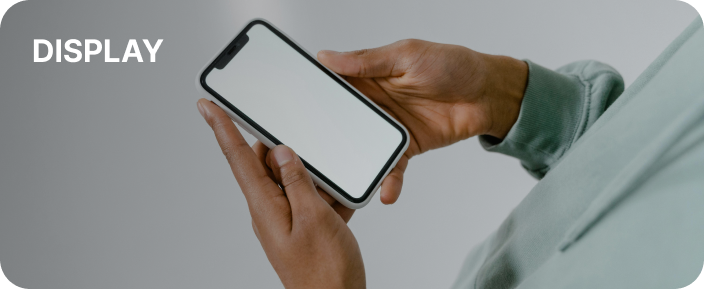
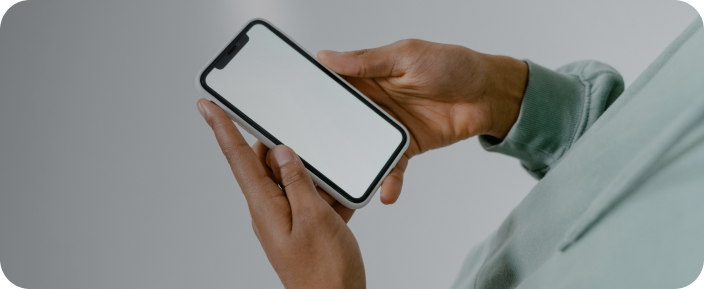
Home page

Changed region(s): [[0.0312, 0.1246, 0.25, 0.218]]

diff --git a/pages/index.tsx b/pages/index.tsx
@@ -5,91 +5,224 @@ import HomeMainBanner from "@/components/Banner/HomeMainBanner";
 import { GetStaticProps } from "next";
 import { useTranslations } from "next-intl";
 import Link from "next/link";
+import HomeSection2Slider from "@/components/Slider/HomeSection2Slider";
+import { HomeSection3ListItem } from "@/helper/utility";
 
 export default function Home() {
     const t = useTranslations("MainPage");
+    const itemList = HomeSection3ListItem();
     return (
         <Layout type="main">
             <div className={`whitespace-pre-line`}>
                 <HomeMainBanner />
-                <div id="section_1" className=" bg-white mt-[100px] ">
+                <div
+                    id="section_1"
+                    className=" bg-white py-[100px] max-xl:py-8 max-xl:px-5"
+                >
                     <div className="mx-auto max-w-[1224px] ">
-                        <div className="flex w-full gap-5 text-[#353644]">
+                        <div className="flex max-sm:flex-col w-full gap-5 text-[#353644]">
                             <div className="w-full  ">
-                                <div className="text-[48px] leading-[64px] font-bold max-w-[496px]">
+                                <div className="text-[48px] leading-[64px] max-sm:text-2xl font-bold max-w-[496px] break-keep break-normal">
                                     {t("Home_section_1_text_1")}
                                 </div>
                             </div>
-                            <div className="w-full text-xl font-light">
+                            <div className="w-full text-xl max-sm:text-sm font-light break-keep break-normal">
                                 {t("Home_section_1_text_2")}
                                 <div>
                                     <Link
                                         href="#"
                                         className="mt-5 border border-black rounded-3xl w-[122px] h-[43px] text-sm text-black font-medium flex items-center justify-center"
                                     >
-                                        더 알아보기
+                                        {t("more_button_text")}
                                     </Link>
                                 </div>
                             </div>
                         </div>
 
-                        <div className=" w-full mt-[108px]">
-                            <div className="text-primary text-2xl border-b border-[#D9D9D9]">
+                        <div className=" w-full mt-[108px] max-sm:mt-14">
+                            <div className="text-primary text-2xl max-sm:text-[16px] border-b border-[#D9D9D9]">
                                 Businesses
                             </div>
 
                             <div className="w-full mt-[36px]">
-                                <div className="grid grid-cols-12 gap-5 w-full mb-5">
-                                    <div className="col-span-7">
+                                <div className="grid grid-cols-12 gap-5 max-sm:gap-2 w-full mb-5 max-sm:mb-2">
+                                    <div className="col-span-7 max-sm:col-span-12 relative">
                                         <Image
                                             src={`/images/h1.png`}
                                             alt={`images/h1.png`}
-                                            className=" h-[289px] w-full object-cover object-center rounded-3xl"
+                                            className=" h-[289px] max-sm:h-[180px] w-full object-cover object-center rounded-3xl"
                                             width="130"
                                             height="50"
                                             unoptimized={true}
                                             priority={true}
                                         />
+                                        <div className="absolute top-8 left-8 max-sm:top-5 max-sm:left-5 font-semibold text-[32px] max-sm:text-2xl uppercase">
+                                            {t("Display")}
+                                        </div>
                                     </div>
-                                    <div className="col-span-5">
+                                    <div className="col-span-5 max-sm:col-span-12 relative">
                                         <Image
                                             src={`/images/h2.png`}
                                             alt={`images/h2.png`}
-                                            className=" h-[289px] w-full object-cover object-center rounded-3xl"
+                                            className=" h-[289px] max-sm:h-[180px] w-full object-cover object-center rounded-3xl"
                                             width="130"
-                                            height="50"
+                                            height="100"
                                             unoptimized={true}
                                             priority={true}
                                         />
+                                        <div className="absolute top-8 left-8 max-sm:top-5 max-sm:left-5 font-semibold text-[32px] max-sm:text-2xl uppercase">
+                                            {t("Semiconductor")}
+                                        </div>
                                     </div>
                                 </div>
-                                <div className="grid grid-cols-12 gap-5 w-full mb-5">
-                                    <div className="col-span-5">
+                                <div className="grid grid-cols-12 gap-5 max-sm:gap-2 w-full mb-5 max-sm:mb-2">
+                                    <div className="col-span-5 max-sm:col-span-12 relative">
                                         <Image
                                             src={`/images/h3.png`}
                                             alt={`images/h3.png`}
-                                            className=" h-[289px] w-full object-cover object-center rounded-3xl"
+                                            className=" h-[289px] max-sm:h-[180px] w-full object-cover object-center rounded-3xl"
                                             width="130"
                                             height="50"
                                             unoptimized={true}
                                             priority={true}
                                         />
+                                        <div className="absolute top-8 left-8 max-sm:top-5 max-sm:left-5 font-semibold text-[32px] max-sm:text-2xl uppercase">
+                                            {t("Secondary Battery")}
+                                        </div>
                                     </div>
-                                    <div className="col-span-7">
+                                    <div className="col-span-7 max-sm:col-span-12 relative">
                                         <Image
                                             src={`/images/h4.png`}
                                             alt={`images/h4.png`}
-                                            className=" h-[289px] w-full object-cover object-center rounded-3xl"
+                                            className=" h-[289px] max-sm:h-[180px] w-full object-cover object-center rounded-3xl"
                                             width="130"
                                             height="50"
                                             unoptimized={true}
                                             priority={true}
                                         />
+                                        <div className="absolute top-8 left-8 max-sm:top-5 max-sm:left-5 font-semibold text-[32px] max-sm:text-2xl uppercase">
+                                            {t("Part-Materials")}
+                                        </div>
                                     </div>
                                 </div>
                             </div>
                         </div>
                     </div>
+                </div>
+
+                <div
+                    id="section_2"
+                    className=" bg-[#F0F4FF] pt-[100px] pb-[58px] max-sm:pt-5 max-sm:pb-5  relative max-sm:px-4"
+                >
+                    <div className="mx-auto max-w-[1224px] ">
+                        <div className="grid grid-cols-12 gap-5 w-full mb-5 ">
+                            <div className="col-span-5 max-sm:col-span-12 relative ">
+                                <div className="max-w-[484px] max-sm:min-w-full ">
+                                    <div className="text-[42px] max-lg:text-[28px] font-medium text-black max-sm:text-center ">
+                                        {t("Home_section_2_title")}
+                                    </div>
+                                    <div className="w-[76px] max-sm:mx-auto h-1 bg-primary"></div>
+                                    <p className="mt-5 text-xl max-lg:text-[16px] font-[400] text-grayText h-[140px] max-sm:h-[80px] ">
+                                        {t("Home_section_2_text")}
+                                    </p>
+                                    <div className="max-sm:hidden">
+                                        {" "}
+                                        <Link
+                                            href="#"
+                                            className="mt-5 bg-gradient-to-r from-[#276CF3] to-[#3042E4] rounded-lg w-[210px] max-lg:w-[150px] h-[56px] max-lg:h-[40px] text-[16px] max-lg:text-sm text-white font-semibold flex items-center justify-center"
+                                        >
+                                            {t("Home_section_2_button")}
+                                        </Link>
+                                    </div>
+                                </div>
+                            </div>
+                            <div className="col-span-7  max-sm:col-span-12 relative"></div>
+                        </div>
+                    </div>
+                    <div className="w-full  sm:absolute sm:top-[100px] h-full z-20 ">
+                        <div className="grid grid-cols-9 max-xxl:grid-cols-7 max-xl:grid-cols-12 sm:gap-5 w-full  ">
+                            <div className="col-span-4 max-sm:col-span-9 max-xxl:col-span-3 max-xl:col-span-5 relative "></div>
+                            <div className="col-span-5 max-sm:col-span-12 max-xxl:col-span-4 max-xl:col-span-7 border ">
+                                <HomeSection2Slider />
+                            </div>
+                        </div>
+
+                        <div className="sm:hidden flex justify-center ">
+                            {" "}
+                            <Link
+                                href="#"
+                                className="mt-5 bg-gradient-to-r from-[#276CF3] to-[#3042E4] rounded-lg w-[210px] max-lg:w-[200px] h-[56px] max-lg:h-[40px] text-[16px] max-lg:text-sm text-white font-semibold flex items-center gap-2 justify-center"
+                            >
+                                {t("Home_section_2_button")}{" "}
+                                <Image
+                                    src={`/svg/arrow-right-sm.svg`}
+                                    alt={``}
+                                    className=" h-6 max-sm:h-6 w-6 "
+                                    width="24"
+                                    height="24"
+                                    unoptimized={true}
+                                    priority={true}
+                                />
+                            </Link>
+                        </div>
+                    </div>
+                </div>
+
+                <div
+                    id="section_3"
+                    className=" bg-white py-[140px] max-xl:py-8 max-xl:px-5"
+                >
+                    <div className="mx-auto max-w-[1224px] ">
+                        <div className=" w-full  max-sm:mt-14">
+                            <div className="text-primary text-2xl max-sm:text-[16px] border-b border-[#D9D9D9]">
+                                {t("Home_section_3_title")}
+                            </div>
+
+                            <div className="text-xl text-[#353644] mt-5 max-w-[558px]">
+                                {t("Home_section_3_text")}
+                            </div>
+
+                            <div className="grid grid-cols-12 gap-6 max-sm:gap-2 mt-14">
+                                {itemList?.map((item, index) => {
+                                    return (
+                                        <div
+                                            key={index}
+                                            className="col-span-3 max-sm:col-span-6 h-[200px] max-sm:h-[130px] relative "
+                                        >
+                                            <div className="absolute top-4 left-7 text-[32px] max-sm:left-5 max-sm:text-xl text-white/40 font-bold">
+                                                {item?.number}.
+                                            </div>
+                                            <Image
+                                                src={item?.image}
+                                                alt={``}
+                                                className=" h-[200px] max-sm:h-[130px] w-full object-cover object-center rounded-2xl"
+                                                width="200"
+                                                height="200"
+                                                unoptimized={true}
+                                                priority={true}
+                                            />
+                                            <div className="absolute bottom-4 left-7 text-[24px] max-sm:left-5 max-sm:text-xl text-white font-semibold">
+                                                {item?.text}
+                                            </div>
+                                        </div>
+                                    );
+                                })}
+                            </div>
+                        </div>
+                    </div>
+                </div>
+
+                <div
+                    id="section_4"
+                    className=" bg-[#F0F4FF] pt-[100px] pb-[58px] max-sm:pt-5 max-sm:pb-5  relative max-sm:px-4"
+                >
+                    <div className="mx-auto max-w-[1224px] ">
+                        <div className="text-[42px] text-black font-medium w-full text-center">{t("Home_section_4_title")}</div>
+                        <div className="w-full">
+                            <div></div>
+                        </div>
+                    </div>
+                    
                 </div>
             </div>
         </Layout>

diff --git a/helper/utility.ts b/helper/utility.ts
@@ -124,23 +124,65 @@ export const Banner = () => {
     const data = [
         {
             text: t("Banner_1_text"),
-            video_link: "https://res.cloudinary.com/do5useihi/video/upload/v1731403539/APP_video_1_olx606.mp4",
-            
+            video_link:
+                "https://res.cloudinary.com/do5useihi/video/upload/v1731403539/APP_video_1_olx606.mp4",
         },
         {
             text: t("Banner_2_text"),
-            video_link: "https://res.cloudinary.com/do5useihi/video/upload/v1731402243/ILP-1500Sss-online-video-cutter.com-1_czrjs2.mp4",
-            
+            video_link:
+                "https://res.cloudinary.com/do5useihi/video/upload/v1731402243/ILP-1500Sss-online-video-cutter.com-1_czrjs2.mp4",
         },
         {
             text: t("Banner_3_text"),
-            video_link: "https://res.cloudinary.com/do5useihi/video/upload/v1731402246/ILP-600HM-online-video-cutter.com-1-1_tjzyur.mp4",
-            
+            video_link:
+                "https://res.cloudinary.com/do5useihi/video/upload/v1731402246/ILP-600HM-online-video-cutter.com-1-1_tjzyur.mp4",
         },
-       {
+        {
             text: t("Banner_4_text"),
-            video_link: "https://res.cloudinary.com/do5useihi/video/upload/v1731402239/Untitled_video_-_Made_with_Clipchamp_2_ofgaqh.mp4",
-            
+            video_link:
+                "https://res.cloudinary.com/do5useihi/video/upload/v1731402239/Untitled_video_-_Made_with_Clipchamp_2_ofgaqh.mp4",
+        },
+    ];
+    return data;
+};
+
+export const HomeSection2SliderItem = () => {
+    const data = [
+        {
+            image: "/images/arp_series_1.png",
+        },
+        {
+            image: "/images/arp_series_2.png",
+        },
+        {
+            image: "/images/arp_series_3.png",
+        },
+    ];
+    return data;
+};
+
+export const HomeSection3ListItem = () => {
+    const t = useTranslations("MainPage");
+    const data = [
+        {
+            number: "01",
+            text: t("Home_section_3_list_item_1_text"),
+            image: "/images/solution1.png",
+        },
+        {
+            number: "02",
+            text: t("Home_section_3_list_item_2_text"),
+            image: "/images/solution2.png",
+        },
+        {
+            number: "03",
+            text: t("Home_section_3_list_item_3_text"),
+            image: "/images/solution3.png",
+        },
+        {
+            number: "04",
+            text: t("Home_section_3_list_item_4_text"),
+            image: "/images/solution4.png",
         },
     ];
     return data;

diff --git a/components/Slider/HomeSection2Slider.tsx b/components/Slider/HomeSection2Slider.tsx
@@ -1,0 +1,47 @@
+import React from "react";
+import { Swiper, SwiperSlide } from "swiper/react";
+import {
+    Navigation,
+    Autoplay,
+} from "swiper/modules";
+import "swiper/css";
+import Image from "next/image";
+import { HomeSection2SliderItem } from "@/helper/utility";
+const HomeSection2Slider: React.FC = () => {
+    const itemList = HomeSection2SliderItem();
+    return (
+        <div className="  w-full  ">
+            <Swiper
+                slidesPerView={'auto'}
+                spaceBetween={10}
+                loop={true}
+                autoplay={{ delay: 3000, disableOnInteraction: false }}
+                centeredSlides={false}
+                
+                pagination={{
+                    clickable: true,
+                }}
+                modules={[ Autoplay, Navigation]}
+                className="mySwiper w-full  "
+            >
+                {itemList?.map((item, index) => {
+                    return (
+                        <SwiperSlide key={index} className="max-w-[460px] max-lg:max-w-[350px] max-sm:max-w-[280px]">
+                            <Image
+                                src={item?.image}
+                                alt={""}
+                                className=" h-[322px] min-w-[460px] max-lg:h-[282px] max-lg:min-w-[350px] max-sm:min-w-[270px] max-sm:h-[180px] bg-cover  "
+                                width="130"
+                                height="130"
+                                unoptimized={true}
+                                priority={true}
+                            />
+                        </SwiperSlide>
+                    );
+                })}
+            </Swiper>
+        </div>
+    );
+};
+
+export default HomeSection2Slider;
